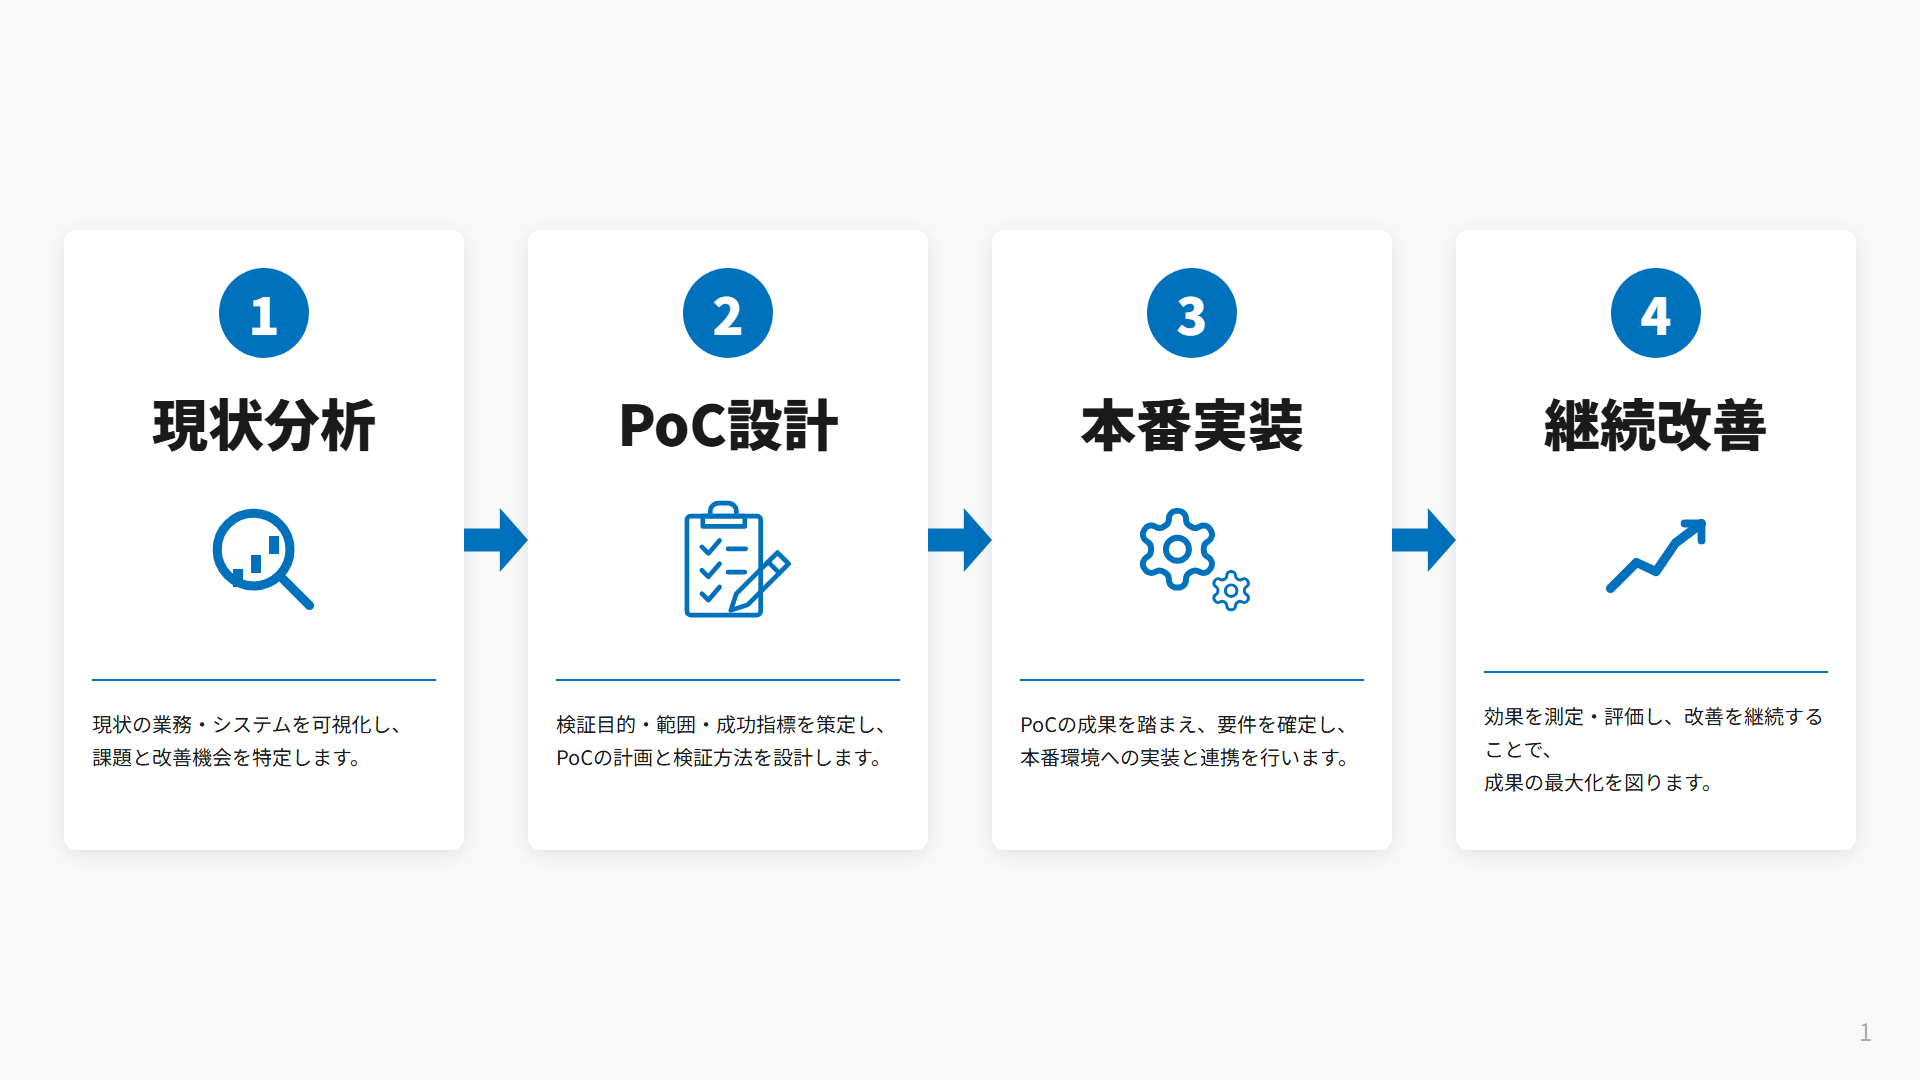
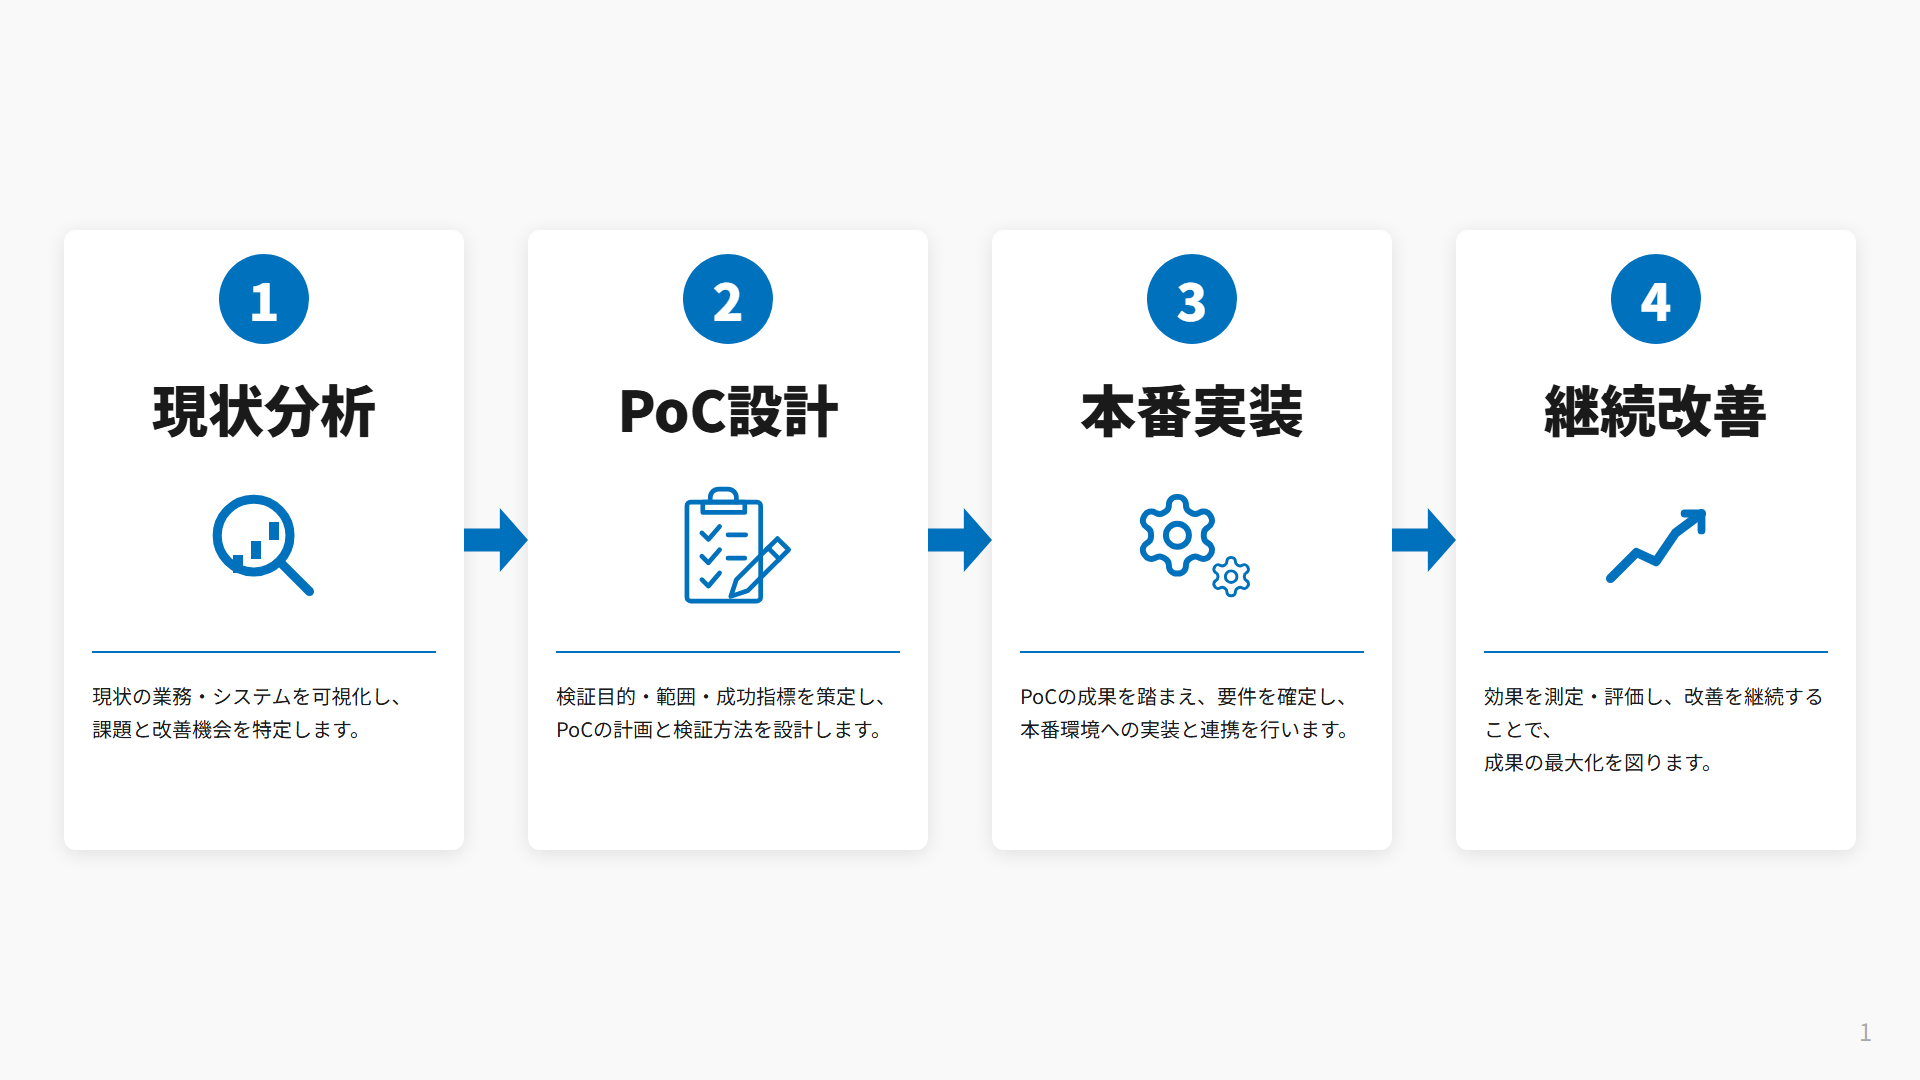
Auto-update: skills/slide-making/test-output2/screenshot-01.png and 1 more file(s)

diff --git a/skills/slide-making/test-output2/slide-01.html b/skills/slide-making/test-output2/slide-01.html
@@ -98,7 +98,7 @@
       font-size: 15pt;
       width: 100%;
       border-top: 2px solid #0071BC;
-      margin-top: 14px;
+      margin-top: 0px;
       padding: 26px 0 0;
       text-align: left;
       color: #1A1A1A;
